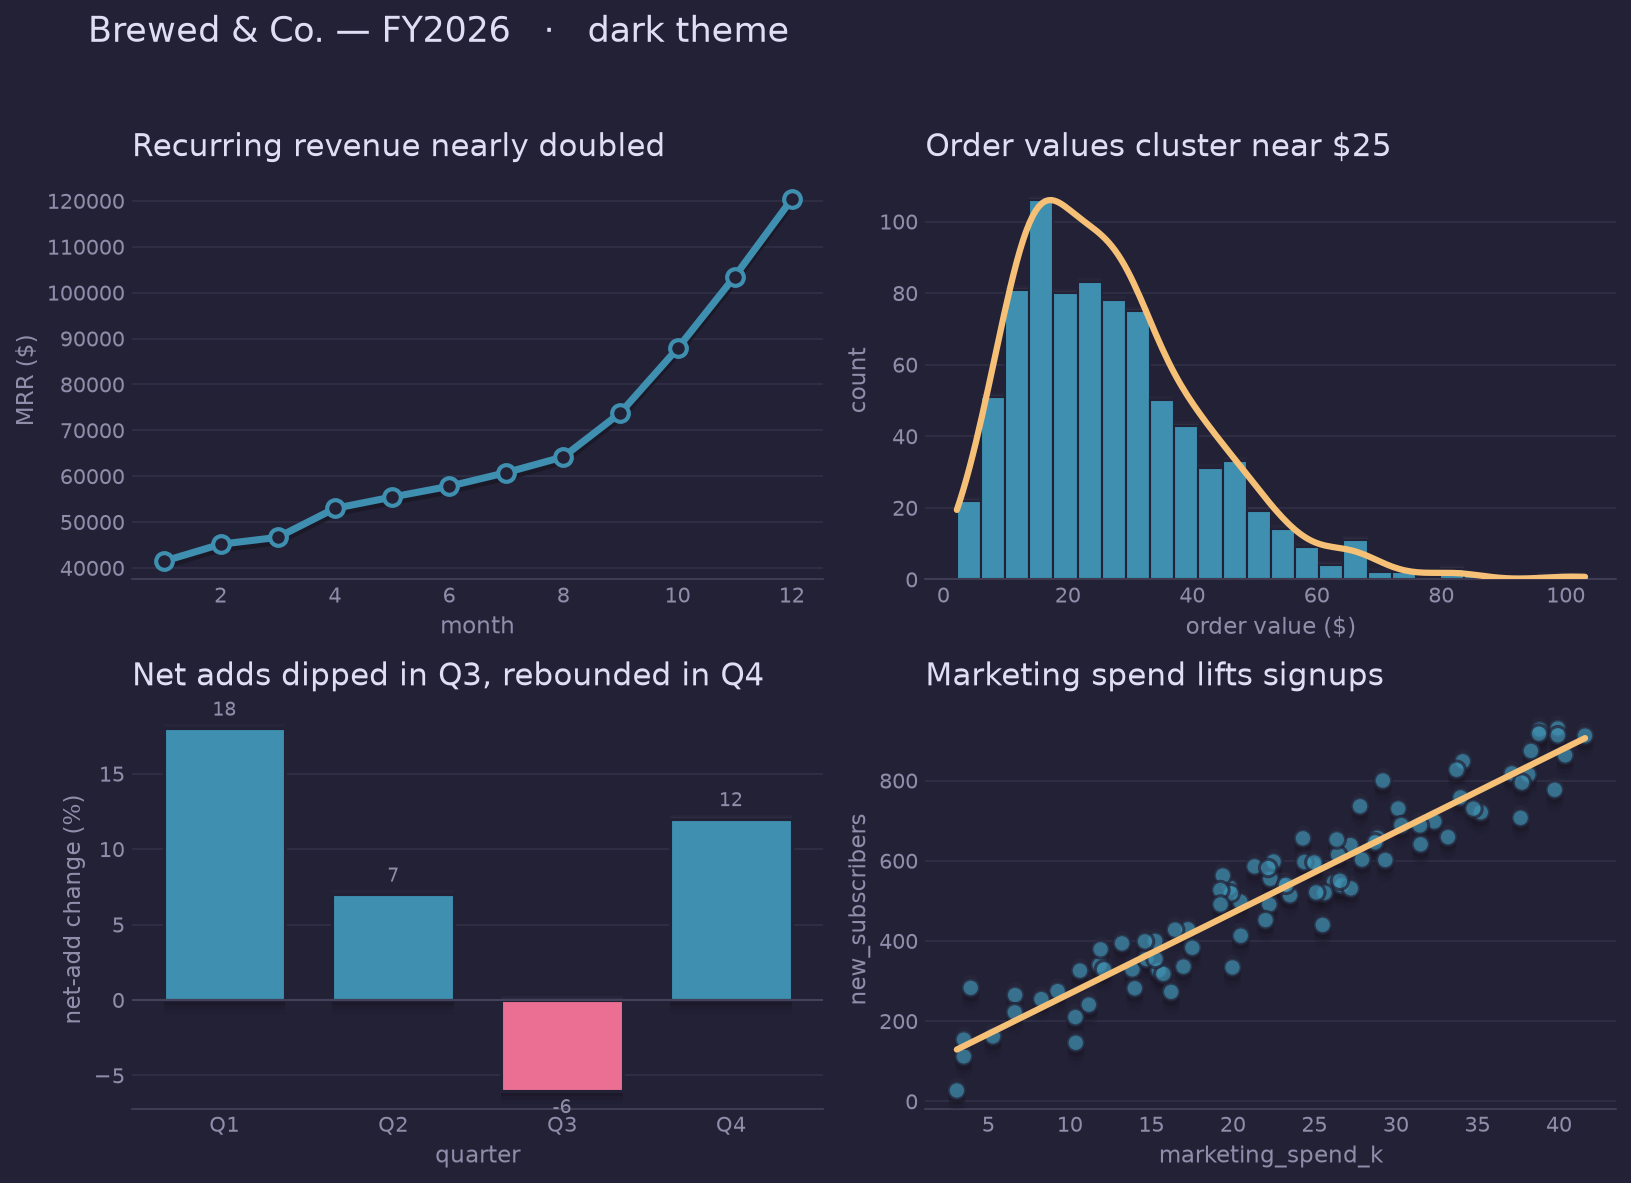
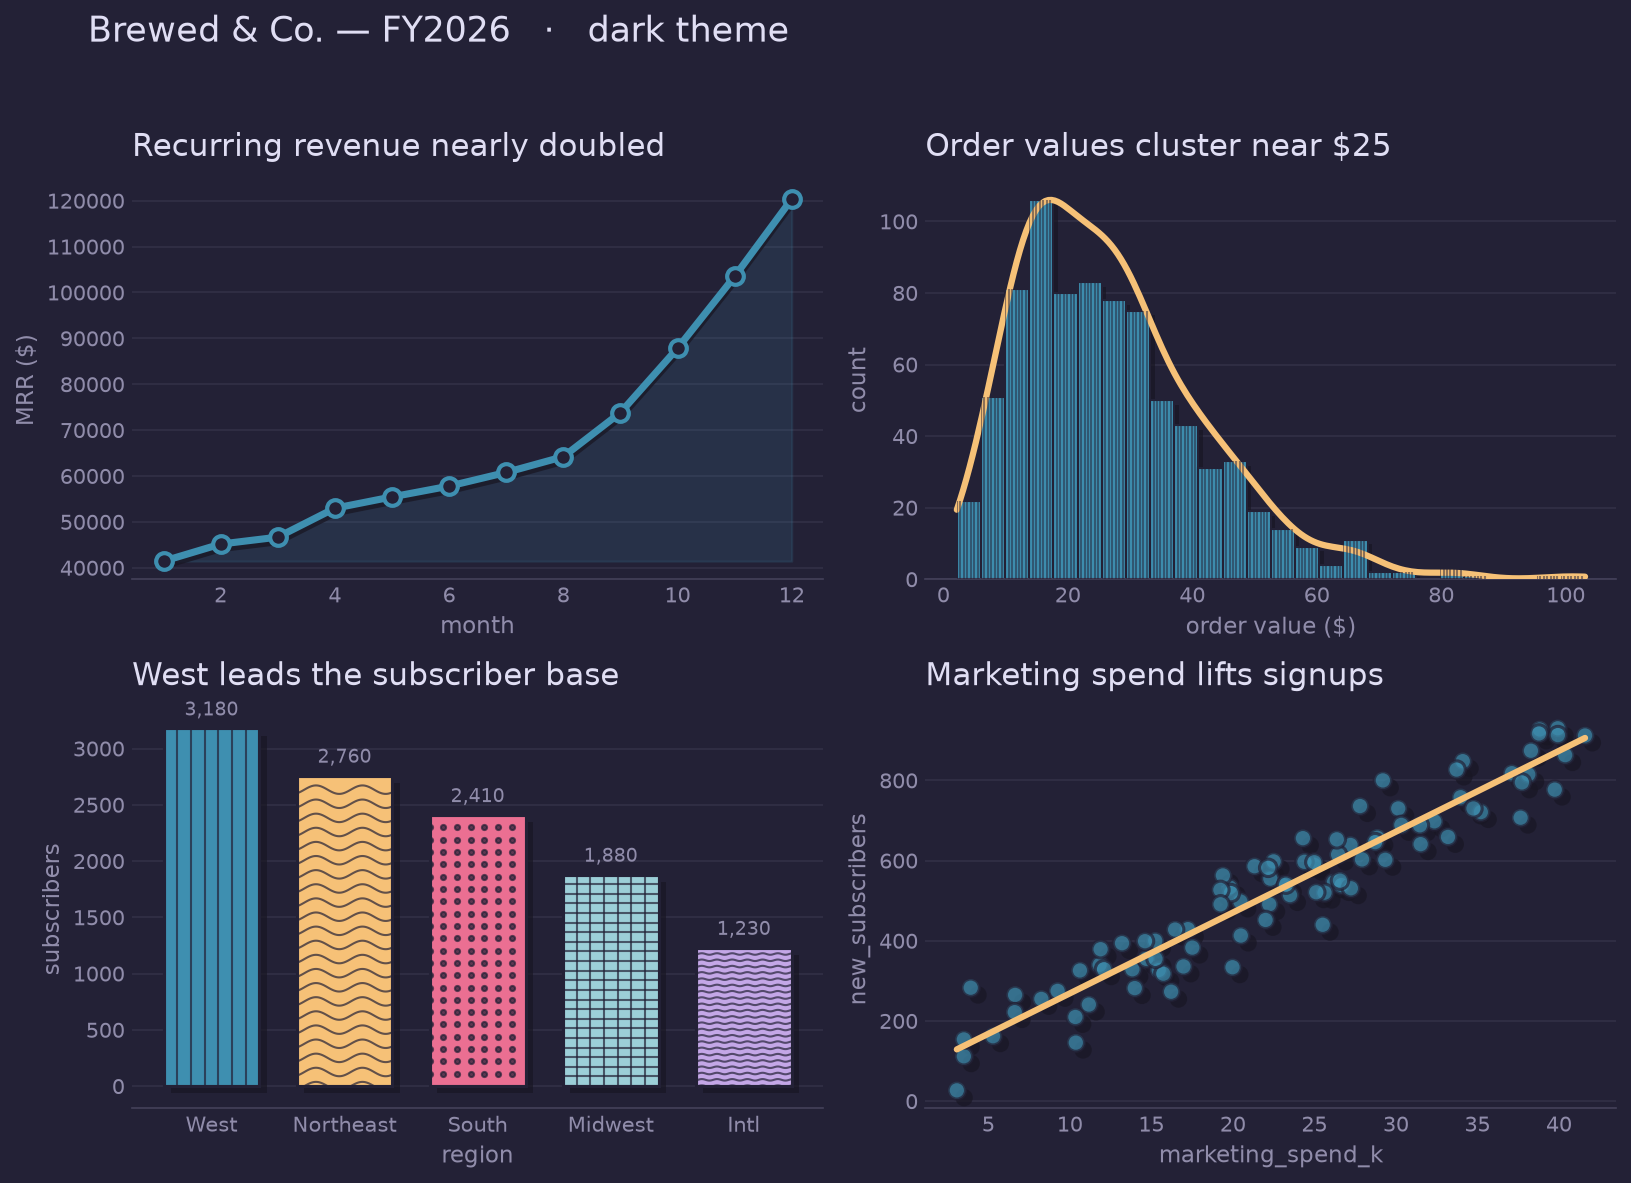
feat: add patterned editorial chart style across all charts
Bring the hand-drawn, editorial reference look into the library's shared
theme system:

- bar_plot(pattern=True|"waves"): clipped motif fills (vertical/waves/dots/
  grid/scribble) with each bar taking a cycling series color
- hist_plot: bars carry the same motif texture (pattern="vertical" default)
- line_plot(fill=True): soft editorial area tint under the rounded line
- simpler down-right raised drop-shadow for tactile depth
- gallery: patterned "hero" chart on an organic ribbon backdrop with a
  coral editorial annotation, plus a fully editorial 2x2 dashboard

Colors still come from the theme tokens (light + Rosé Pine Moon dark), so
patterns stay colorblind-considerate and theme-aware. Tests updated; 20 pass.

Changed region(s): [[0.0307, 0.5478, 0.4905, 1.0], [0.5825, 0.1522, 0.8584, 0.4869], [0.0613, 0.6086, 0.092, 0.6391]]

diff --git a/src/data_vizual/core.py b/src/data_vizual/core.py
@@ -84,15 +84,35 @@ def missing_value_counts(df: pd.DataFrame) -> pd.Series:
     """Missing values per column, highest first."""
     return df.isna().sum().sort_values(ascending=False)
 
+_MOTIFS = ("vertical", "waves", "dots", "grid", "scribble")
+
 def _shadow(scale: float = 1.0) -> list:
-    """Soft neomorphic extrude: a blurred dark bloom below + a light lift above,
-    faked by stacking offset shadow copies with decaying alpha."""
-    t, sp = theme_tokens(), pe.SimplePatchShadow
-    fx = [sp(offset=(0, -o * scale), shadow_rgbFace=t["sd"], alpha=t["sd_a"] * a)
-          for o, a in ((1, 1), (2.6, .7), (4.4, .45), (6.5, .25))]
-    fx += [sp(offset=(0, o * scale), shadow_rgbFace=t["sl"], alpha=t["sl_a"] * a)
-           for o, a in ((.8, 1), (2, .5))]
-    return fx + [pe.Normal()]
+    """A soft raised drop-shadow (down-right) giving each mark tactile depth."""
+    t = theme_tokens()
+    return [pe.SimplePatchShadow(offset=(3.5 * scale, -3.5 * scale),
+                                 shadow_rgbFace=t["sd"], alpha=t["sd_a"] * 1.3),
+            pe.Normal()]
+
+def _pattern(ax, patch, kind, color, x0, x1, top, a=0.7):
+    """Texture a bar by clipping an editorial motif inside it: parallel lines,
+    hand-drawn waves/scribble, a dot field, or a grid — all pure matplotlib."""
+    xs = np.linspace(x0, x1, 120)
+    row = max(abs(top), 1) / 22
+    clip = lambda art: art.set_clip_path(patch)
+    if kind in ("vertical", "grid"):
+        for gx in np.arange(x0, x1, (x1 - x0) / 7):
+            clip(ax.plot([gx, gx], [0, top], color=color, lw=1, alpha=a, zorder=7)[0])
+    if kind in ("horizontal", "grid"):
+        for gy in np.arange(0, top, row):
+            clip(ax.plot([x0, x1], [gy, gy], color=color, lw=1, alpha=a, zorder=7)[0])
+    if kind in ("waves", "scribble"):
+        f, amp = (18, .30) if kind == "waves" else (55, .12)
+        for gy in np.arange(0, top, row):
+            clip(ax.plot(xs, gy + row * amp * np.sin(xs * f),
+                         color=color, lw=1, alpha=a, zorder=7)[0])
+    if kind == "dots":
+        gx, gy = np.meshgrid(np.arange(x0, x1, (x1 - x0) / 7), np.arange(row, top, row))
+        clip(ax.scatter(gx.ravel(), gy.ravel(), s=6, color=color, alpha=a, zorder=7))
 
 def _axes(ax):
     """Return a themed Axes, creating a transparent-backed one if needed."""
@@ -121,11 +141,15 @@ def _style(ax, title, x=None, y=None):
         ax.set_title(title, loc="left")
     return ax
 
-def line_plot(df, x, y, ax=None, title=None, color=None, label=None, marker="o"):
-    """Line chart: a solid rounded line with a soft shadow and open markers."""
+def line_plot(df, x, y, ax=None, title=None, color=None, label=None, marker="o",
+              fill=False):
+    """Line chart: a solid rounded line with a soft shadow and open markers;
+    fill=True adds a soft editorial area tint beneath it."""
     ax = _axes(ax)
     t = theme_tokens()
     c = color or t["accent"]
+    if fill:
+        ax.fill_between(df[x], df[y], df[y].min(), color=c, alpha=0.15, zorder=2)
     (ln,) = ax.plot(df[x], df[y], color=c, label=label, linewidth=3.4,
                     solid_capstyle="round", solid_joinstyle="round", zorder=3)
     ln.set_path_effects([pe.SimpleLineShadow(offset=(0, -2.2), shadow_color=t["sd"],
@@ -137,21 +161,28 @@ def line_plot(df, x, y, ax=None, title=None, color=None, label=None, marker="o")
     return _style(ax, title, x, y)
 
 def bar_plot(df, x, y, ax=None, title=None, color=None, by_sign=False,
-             highlight=None, show_values=True):
-    """Bars: blue (or blue/negative by sign, or one highlighted), softly raised
-    with a shadow and direct value labels; no gradients."""
+             highlight=None, show_values=True, pattern=None):
+    """Bars: softly raised with a shadow and direct value labels. Color by sign,
+    highlight one, or (pattern=True) give each bar an editorial series color and
+    a clipped motif; pattern="waves" applies one motif to every bar."""
     ax = _axes(ax)
     t = theme_tokens()
     if by_sign:
         colors = [t["accent"] if v >= 0 else t["negative"] for v in df[y]]
     elif highlight is not None:
         colors = [t["accent"] if c == highlight else t["muted"] for c in df[x]]
+    elif pattern is True:
+        colors = [t["series"][i % len(t["series"])] for i in range(len(df))]
     else:
         colors = color or t["accent"]
     bars = ax.bar(df[x], df[y], color=colors, edgecolor=t["outline"],
                   linewidth=1.5, width=0.72)
-    for b in bars:
+    for i, b in enumerate(bars):
         b.set_path_effects(_shadow())
+        if pattern:
+            kind = _MOTIFS[i % len(_MOTIFS)] if pattern is True else pattern
+            _pattern(ax, b, kind, t["outline"], b.get_x(),
+                     b.get_x() + b.get_width(), b.get_height())
     if by_sign:
         ax.axhline(0, color=t["baseline"], linewidth=1, zorder=1)
     if show_values:
@@ -179,16 +210,20 @@ def scatter_plot(df, x, y, ax=None, title=None, color=None, trendline=False):
                 solid_capstyle="round", zorder=4)
     return _style(ax, title, x, y)
 
-def hist_plot(df, column, bins=20, ax=None, title=None, color=None):
-    """Histogram with a smooth density curve (the distribution line) overlaid."""
+def hist_plot(df, column, bins=20, ax=None, title=None, color=None,
+              pattern="vertical"):
+    """Histogram with a smooth density curve (the distribution line) overlaid;
+    bars carry the same editorial motif fill as bar_plot (pattern=None for solid)."""
     ax = _axes(ax)
     t = theme_tokens()
     v = np.asarray(df[column], float)
     v = v[~np.isnan(v)]
-    counts, _, patches = ax.hist(v, bins=bins, color=color or t["accent"],
-                                 edgecolor=t["outline"], linewidth=1)
-    for p in patches:
-        p.set_path_effects(_shadow())
+    counts, edges, patches = ax.hist(v, bins=bins, color=color or t["accent"],
+                                     edgecolor=t["outline"], linewidth=1)
+    for p, lo, hi in zip(patches, edges[:-1], edges[1:]):
+        p.set_path_effects(_shadow(0.6))
+        if pattern:
+            _pattern(ax, p, pattern, t["outline"], lo, hi, p.get_height(), a=0.5)
     g = np.linspace(v.min(), v.max(), 200)
     h = 1.06 * v.std() * len(v) ** -0.2 or 1.0           # Silverman bandwidth
     d = np.exp(-((g[:, None] - v) / h) ** 2 / 2).sum(1) / (len(v) * h * 2.5066)

diff --git a/examples/gallery.py b/examples/gallery.py
@@ -54,7 +54,7 @@ def build(mode: str) -> plt.Figure:
                  x=0.06, ha="left", fontsize=17, fontweight="medium",
                  color=t["primary"])
 
-    dv.line_plot(mrr, x="month", y="mrr", ax=axes[0, 0],
+    dv.line_plot(mrr, x="month", y="mrr", ax=axes[0, 0], fill=True,
                  title="Recurring revenue nearly doubled")
     axes[0, 0].set_ylabel("MRR ($)")
 
@@ -62,9 +62,9 @@ def build(mode: str) -> plt.Figure:
                      title="Order values cluster near $25")
     h.set_xlabel("order value ($)")
 
-    dv.bar_plot(qoq, x="quarter", y="net_add_change", ax=axes[1, 0],
-                by_sign=True, title="Net adds dipped in Q3, rebounded in Q4")
-    axes[1, 0].set_ylabel("net-add change (%)")
+    dv.bar_plot(regions, x="region", y="subscribers", ax=axes[1, 0],
+                pattern=True, title="West leads the subscriber base")
+    axes[1, 0].set_ylabel("subscribers")
 
     dv.scatter_plot(signups, x="marketing_spend_k", y="new_subscribers",
                     ax=axes[1, 1], trendline=True,
@@ -74,12 +74,49 @@ def build(mode: str) -> plt.Figure:
     return fig
 
 
+def _ribbon(ax, t):
+    """A subtle organic patterned ribbon behind the lower portion of the axes."""
+    ax.set_xlim(-0.7, 4.7)
+    x = np.linspace(-0.7, 4.7, 300)
+    top = 9 + 2 * np.sin(x * 1.5) + 1.3 * np.sin(x * 3.1)
+    band = ax.fill_between(x, 0, top, color=t["baseline"], alpha=0.28, zorder=0)
+    for gy in np.arange(1.0, 10, 1.4):
+        ln, = ax.plot(x, gy + 0.28 * np.sin(x * 2 + gy), color=t["muted"],
+                      lw=0.9, alpha=0.4, zorder=1)
+        ln.set_clip_path(band.get_paths()[0], ln.get_transform())
+
+
+def hero(mode: str) -> plt.Figure:
+    """Replicate the reference 'Espresso drives the catalog' look, built entirely
+    from the library's patterned bar_plot on a soft ribbon backdrop."""
+    dv.set_theme(mode)
+    t = dv.theme_tokens(mode)
+    catalog = pd.DataFrame({
+        "product": ["Espresso", "Cold Brew", "Single-Origin", "Decaf", "Gear"],
+        "revenue": [48, 32, 23, 12, 8],
+    })
+    fig, ax = plt.subplots(figsize=(11, 6.6))
+    fig.set_facecolor(t["page"])
+    _ribbon(ax, t)
+    dv.bar_plot(catalog, x="product", y="revenue", ax=ax, pattern=True,
+                title="Espresso drives the catalog")
+    ax.set_ylim(0, 56)
+    ax.annotate("Espresso contributes\n38% of product revenue",
+                xy=(0, 48), xytext=(0.8, 54), ha="left", va="top",
+                fontsize=11, color=t["secondary"],
+                arrowprops=dict(arrowstyle="-", color=t["negative"], lw=2,
+                                connectionstyle="angle3,angleA=0,angleB=90"))
+    fig.text(0.09, 0.02, "Brewed & Co. · FY2026 revenue (USD millions)",
+             color=t["muted"], fontsize=9, ha="left")
+    fig.tight_layout(rect=(0, 0.03, 1, 1))
+    return fig
+
+
 def main() -> None:
     for mode in ("light", "dark"):
-        fig = build(mode)
-        out = f"gallery-{mode}.png"
-        fig.savefig(out, dpi=150)
-        print(f"wrote {out}")
+        build(mode).savefig(f"gallery-{mode}.png", dpi=150)
+        hero(mode).savefig(f"gallery-hero-{mode}.png", dpi=150)
+        print(f"wrote gallery-{mode}.png + gallery-hero-{mode}.png")
 
 
 if __name__ == "__main__":

diff --git a/tests/test_core.py b/tests/test_core.py
@@ -122,6 +122,16 @@ def test_bar_highlight_uses_muted_for_others():
     assert faces[0] == dv.theme_tokens()["muted"].lower()
 
 
+def test_bar_pattern_cycles_series_colors_and_adds_texture():
+    d = pd.DataFrame({"k": ["A", "B", "C"], "v": [5, 3, 4]})
+    ax = dv.bar_plot(d, x="k", y="v", pattern=True)
+    series = dv.theme_tokens()["series"]
+    faces = [plt.matplotlib.colors.to_hex(p.get_facecolor()).lower()
+             for p in ax.patches]
+    assert faces[:3] == [series[0].lower(), series[1].lower(), series[2].lower()]
+    assert len(ax.lines) + len(ax.collections) > 0   # clipped motif drawn inside
+
+
 def test_scatter_plot_returns_axes(df):
     ax = dv.scatter_plot(df, x="month", y="revenue")
     assert len(ax.collections) == 1
@@ -137,7 +147,10 @@ def test_hist_plot_has_bars_and_density_line():
     d = pd.DataFrame({"v": np.random.default_rng(0).normal(0, 1, 500)})
     ax = dv.hist_plot(d, column="v", bins=20)
     assert len(ax.patches) == 20        # histogram bars
-    assert len(ax.lines) == 1           # overlaid density curve
+    emph = dv.theme_tokens()["emphasis"].lower()
+    density = [ln for ln in ax.lines
+               if plt.matplotlib.colors.to_hex(ln.get_color()).lower() == emph]
+    assert len(density) == 1            # exactly one overlaid density curve
 
 
 def test_title_is_left_aligned(df):

diff --git a/src/data_vizual/__init__.py b/src/data_vizual/__init__.py
@@ -4,7 +4,7 @@ from .core import (available_themes, bar_plot, hist_plot, line_plot, load_csv,
                    missing_value_counts, scatter_plot, set_theme,
                    summary_statistics, theme_tokens)
 
-__version__ = "0.5.1"
+__version__ = "0.6.0"
 __all__ = ["set_theme", "available_themes", "theme_tokens", "load_csv",
            "summary_statistics", "missing_value_counts", "line_plot",
            "bar_plot", "hist_plot", "scatter_plot"]

diff --git a/README.md b/README.md
@@ -11,10 +11,19 @@ object, so the library stays easy to read, test, and debug.
 
 ## Gallery
 
-A playful, softly dimensional look — a blue-led palette (burnt orange for
-emphasis), soft mark shadows, quiet unframed axes, and faint gridlines — in both
-light and dark themes. Below: a small dashboard for a fictional coffee company
-(`python examples/gallery.py`).
+A playful, editorial, softly dimensional look — a blue-led palette (burnt
+orange for emphasis), soft raised mark shadows, quiet unframed axes, faint
+gridlines, and **hand-drawn patterned bar fills** (waves, lines, dots, grid,
+scribble) — in both light and dark themes. Run `python examples/gallery.py`.
+
+**Patterned bars** (`bar_plot(..., pattern=True)`) — each bar gets a series
+color and a clipped editorial motif, on a soft organic ribbon backdrop:
+
+| Light | Dark |
+| --- | --- |
+| ![Patterned bars, light theme](docs/images/gallery-hero-light.png) | ![Patterned bars, dark theme](docs/images/gallery-hero-dark.png) |
+
+**The full dashboard** for a fictional coffee company:
 
 | Light | Dark |
 | --- | --- |
@@ -46,8 +55,9 @@ dv.summary_statistics(df)    # count / mean / std / min / quartiles / max
 dv.missing_value_counts(df)  # missing values per column (highest first)
 
 # Each plot returns a matplotlib Axes you can keep customizing.
-dv.line_plot(df, x="month", y="revenue", title="Revenue nearly doubled")
-dv.hist_plot(df, column="order_value")                      # bars + density line
+dv.line_plot(df, x="month", y="revenue", fill=True, title="Revenue doubled")
+dv.hist_plot(df, column="order_value")                      # textured bars + density line
+dv.bar_plot(df, x="product", y="revenue", pattern=True)     # editorial patterned bars
 dv.bar_plot(df, x="quarter", y="growth", by_sign=True)      # blue / negative
 dv.bar_plot(df, x="region", y="sales", highlight="West")    # one bar in focus
 dv.scatter_plot(df, x="ad_spend", y="signups", trendline=True)
@@ -87,8 +97,8 @@ accents one bar and mutes the rest; `scatter_plot(..., trendline=True)` adds a
 burnt-orange regression line. Insight-led titles (`title=`) act as direct
 labels.
 
-> Scope: this is an MVP (core module under 200 lines) — three chart types on a
-> shared theme. Static matplotlib output, so web concepts like
+> Scope: this is a compact MVP — four chart types on a shared, patterned
+> editorial theme. Static matplotlib output, so web concepts like
 > `prefers-reduced-motion`, DOM tooltips, and keyboard focus don't apply.
 
 ## API
@@ -99,9 +109,9 @@ labels.
 | `load_csv(path, **kwargs)` | Read a CSV into a DataFrame (clear error if missing). |
 | `summary_statistics(df)` | Descriptive stats for numeric columns. |
 | `missing_value_counts(df)` | Missing values per column, sorted descending. |
-| `line_plot(df, x, y, ...)` | Line + open markers with a soft shadow. |
-| `hist_plot(df, column, bins=20)` | Histogram with a smooth density (distribution) line overlaid. |
-| `bar_plot(df, x, y, ...)` | Bars with soft depth + value labels; `by_sign`, `highlight`. |
+| `line_plot(df, x, y, fill=False, ...)` | Rounded line + open markers with a soft shadow; `fill` adds an area tint. |
+| `hist_plot(df, column, bins=20, pattern="vertical")` | Histogram (textured bars) with a smooth density (distribution) line overlaid. |
+| `bar_plot(df, x, y, ...)` | Bars with soft depth + value labels; `by_sign`, `highlight`, `pattern` (editorial motif fills). |
 | `scatter_plot(df, x, y, trendline=False)` | Translucent points; optional burnt-orange trend line. |
 
 Every plot accepts an optional `ax=` and returns the `Axes`, so you can compose
